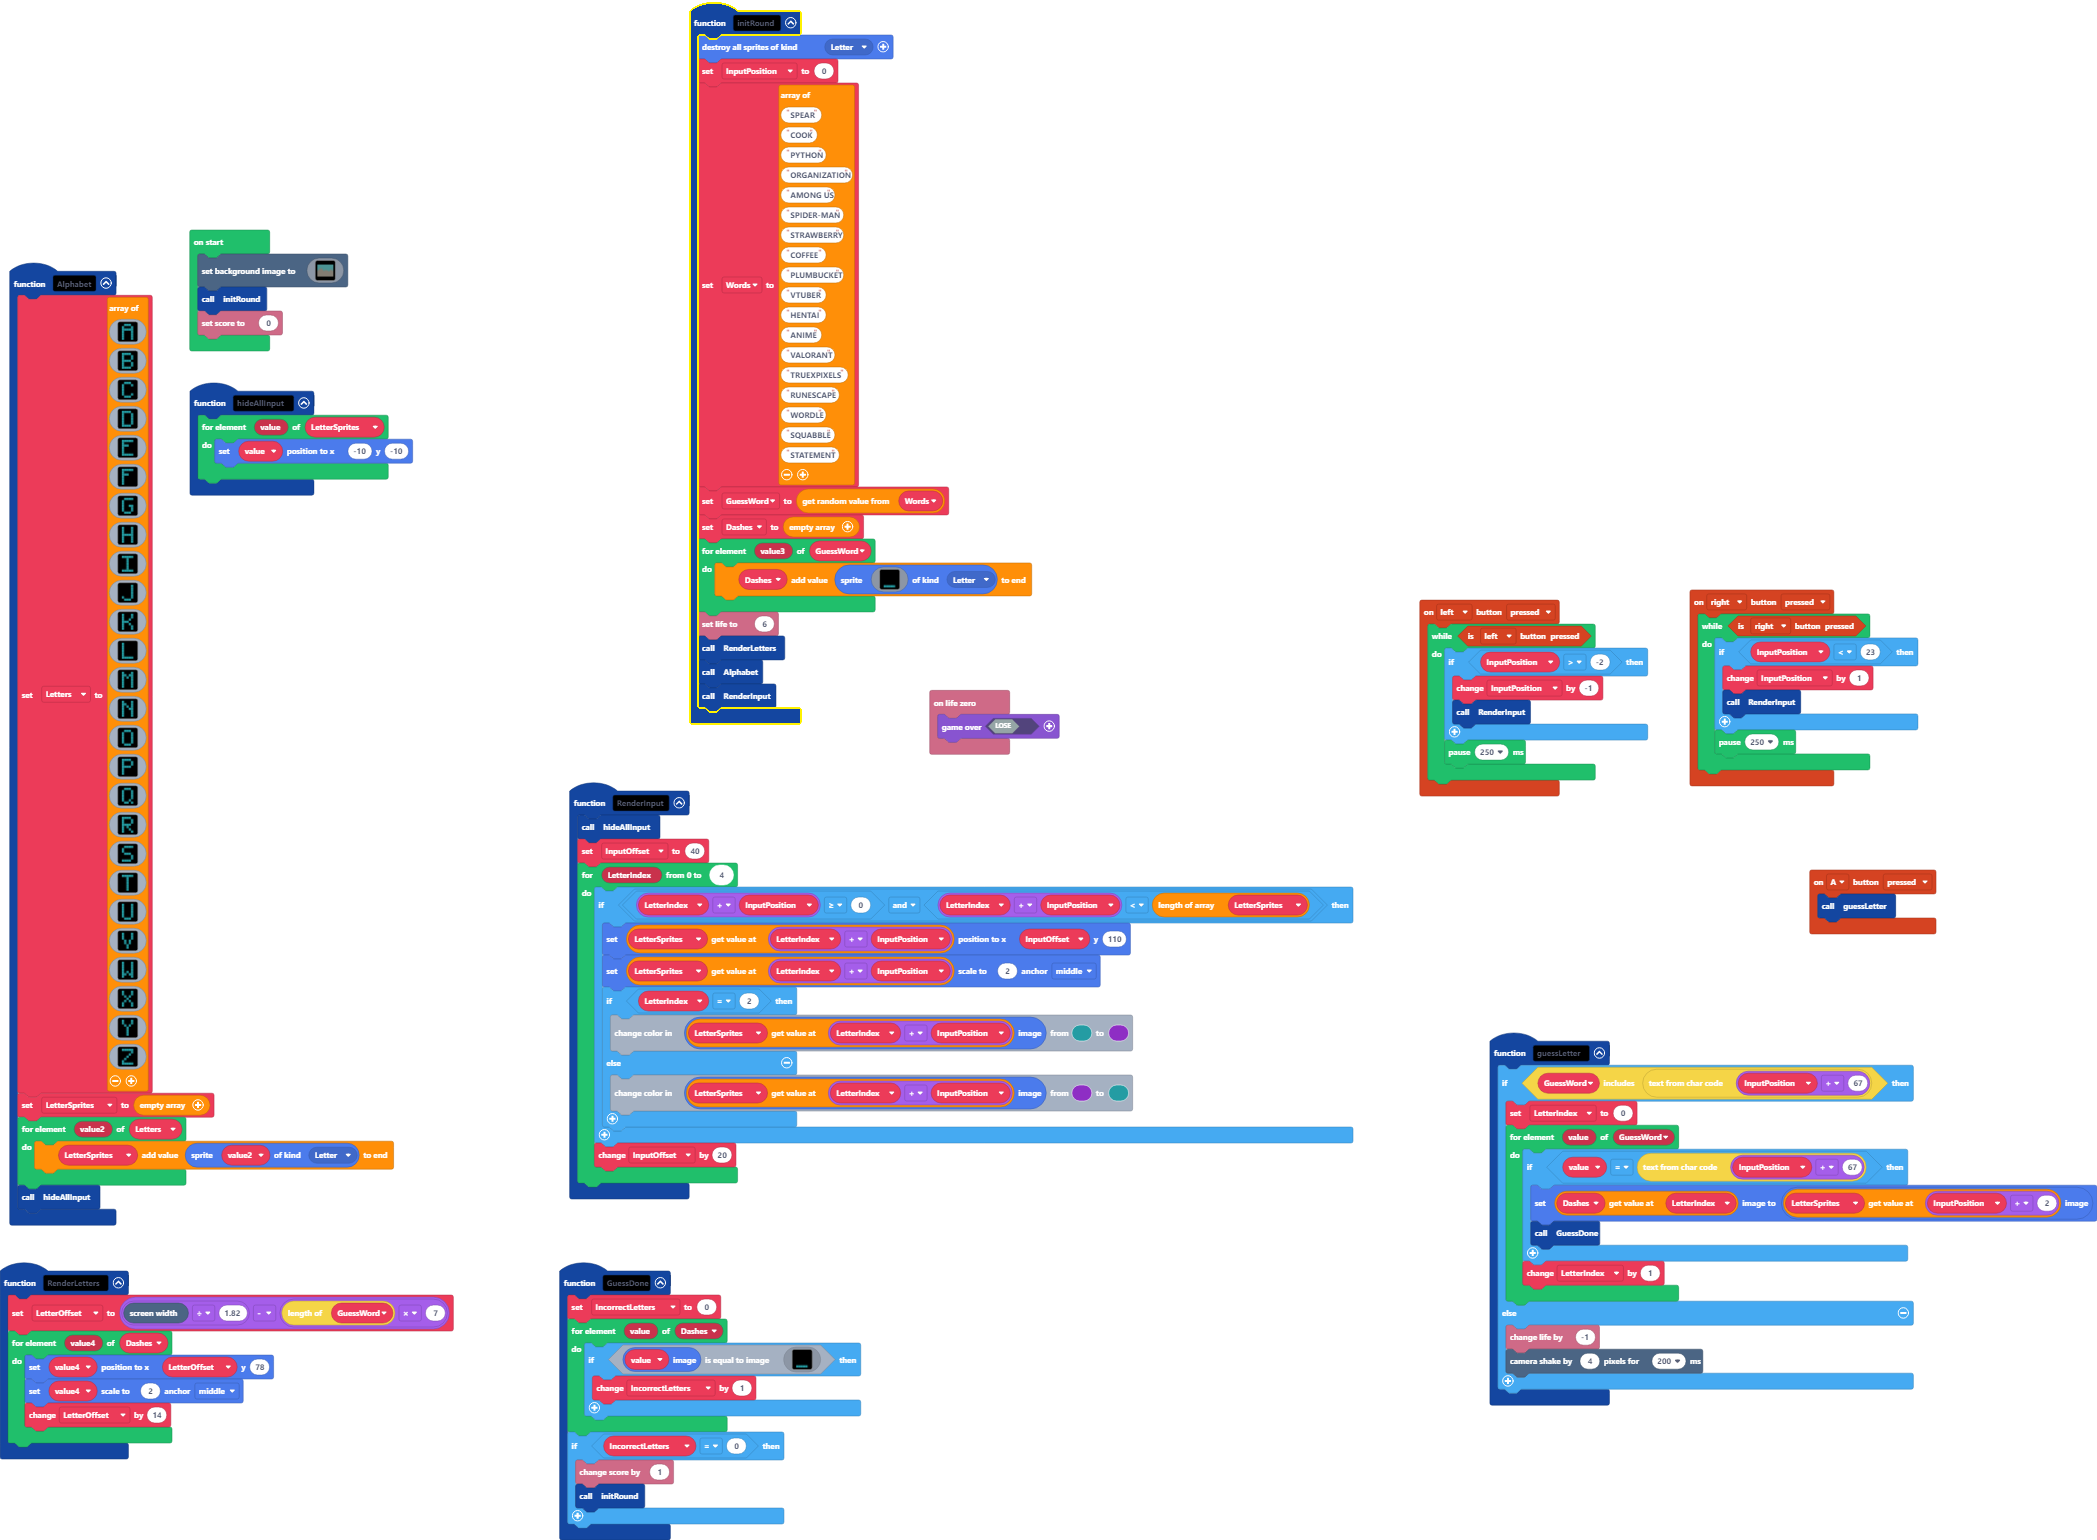
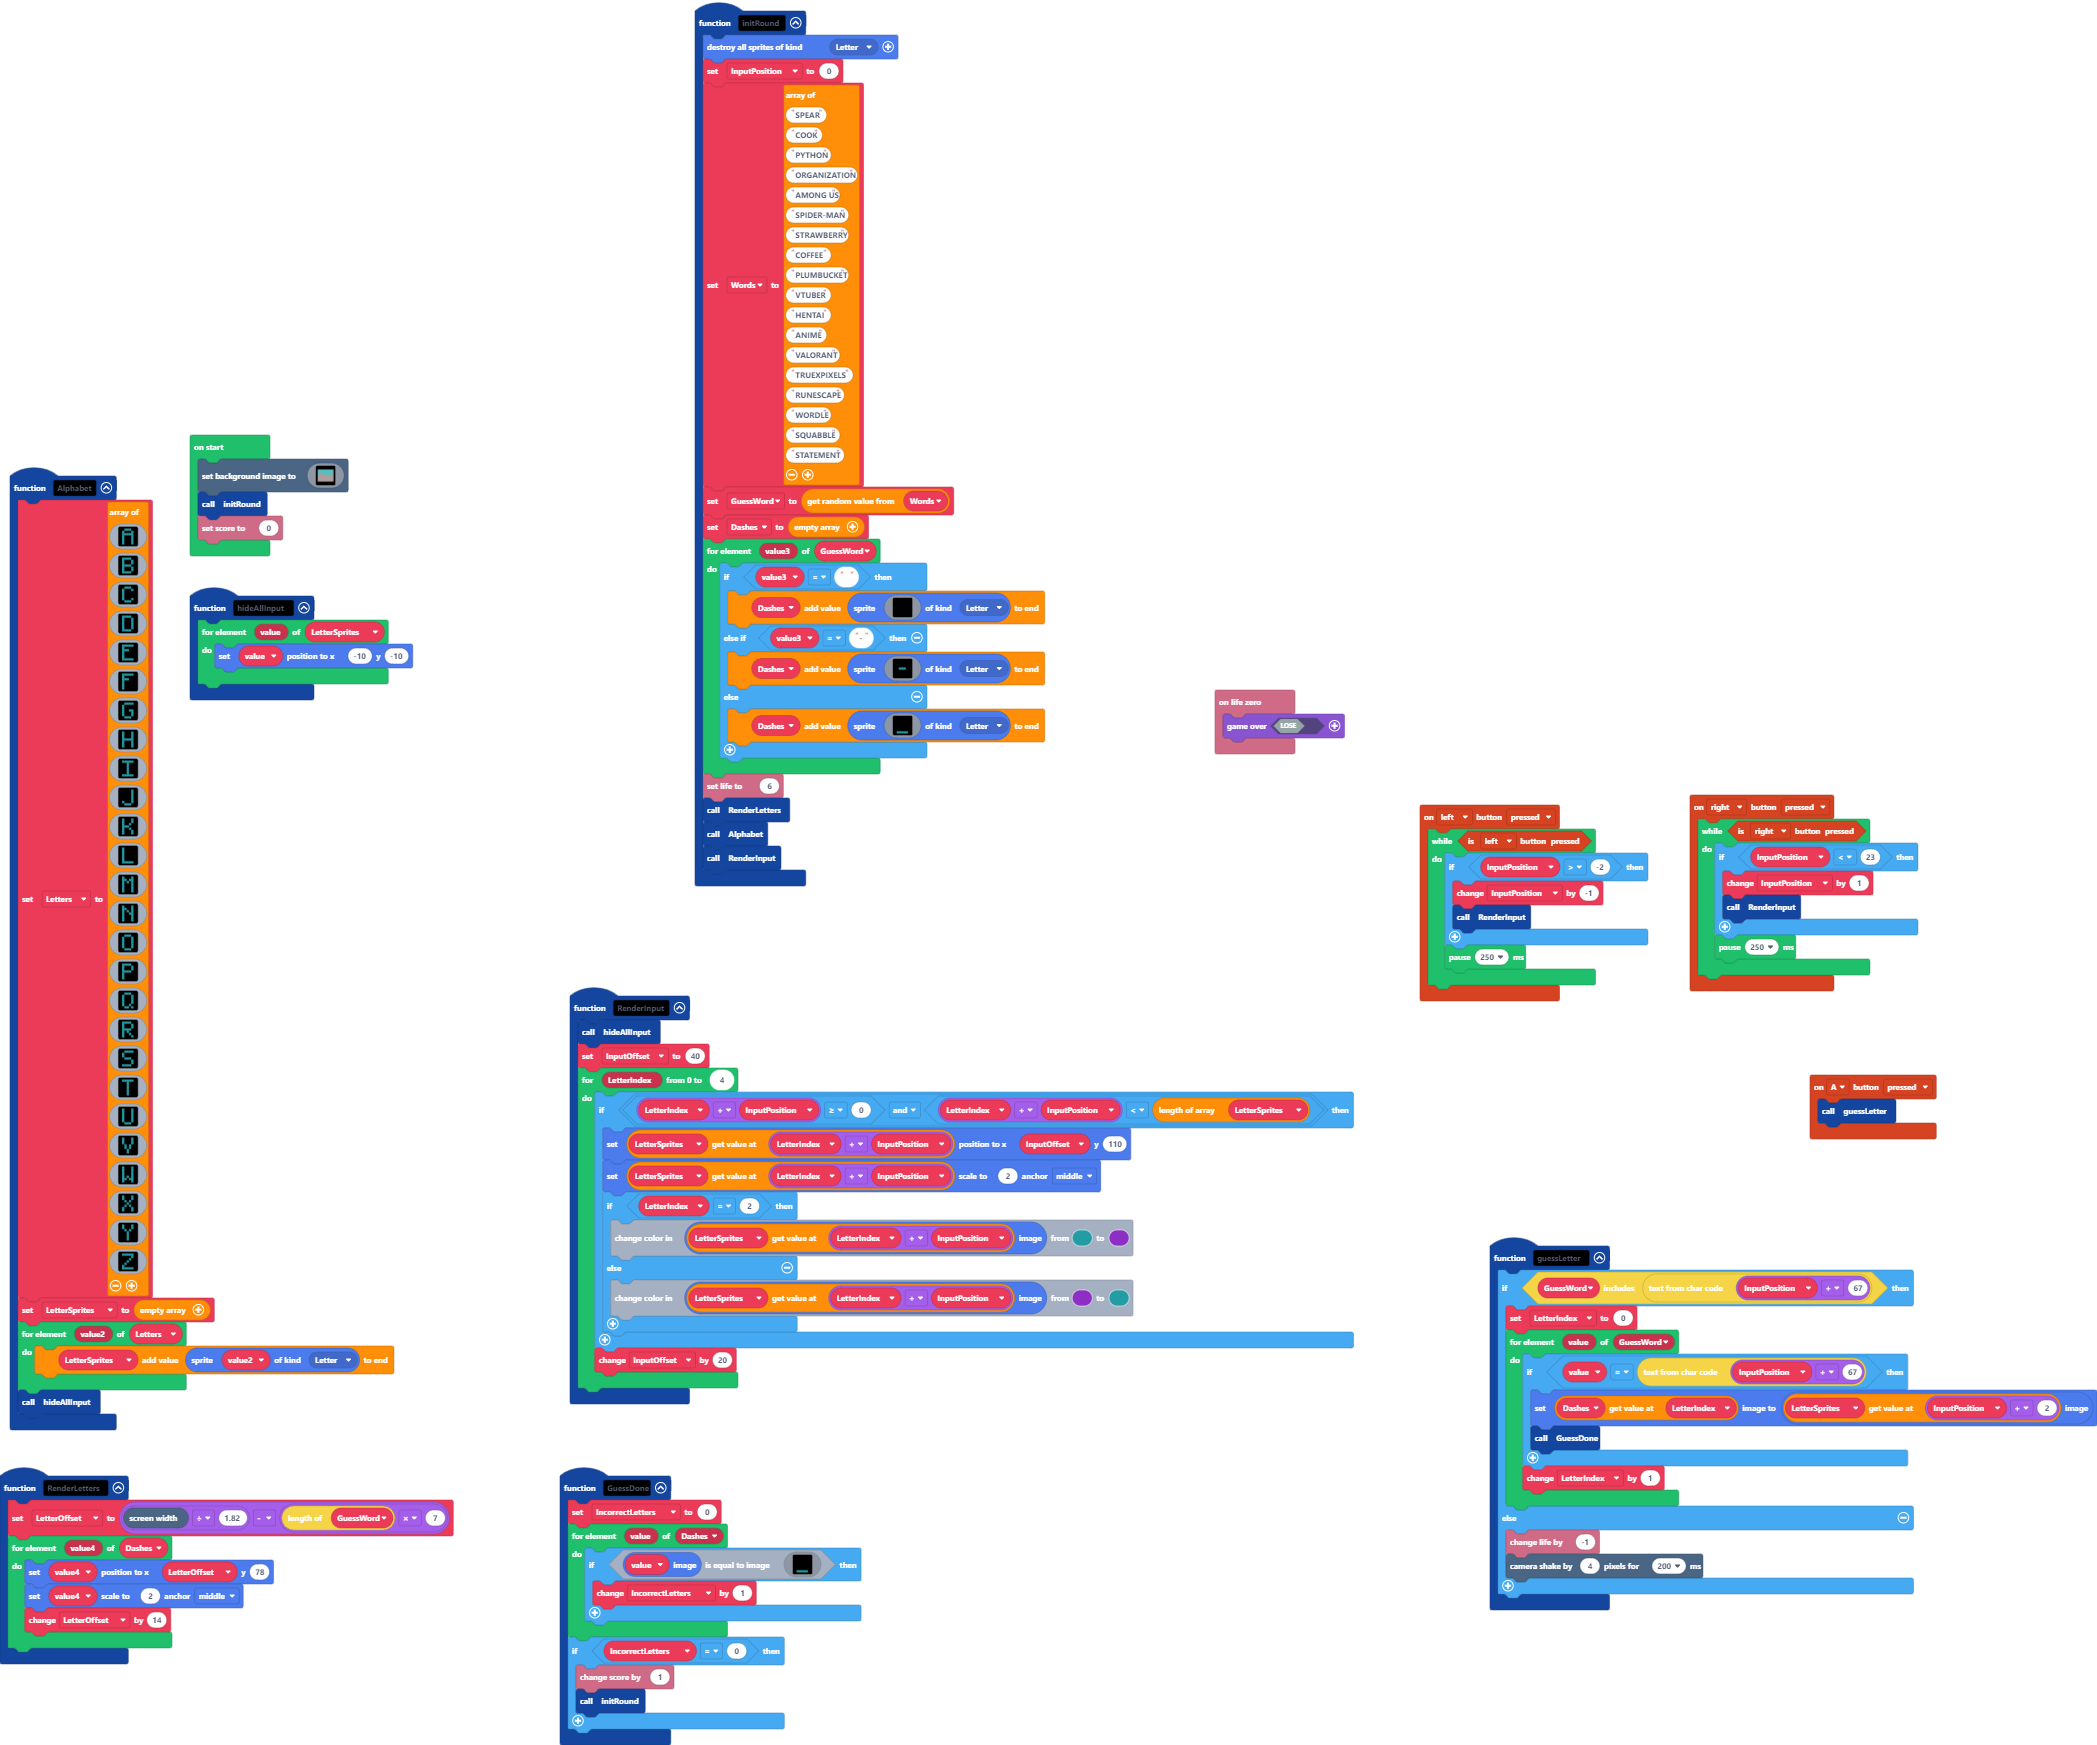
DO NOT LOSE THIS. FULL GAME NOT FINISHED

diff --git a/main.ts b/main.ts
@@ -119,7 +119,13 @@ function initRound () {
     GuessWord = Words._pickRandom()
     Dashes = []
     for (let value3 of GuessWord) {
-        Dashes.push(sprites.create(assets.image`Dash`, SpriteKind.Letter))
+        if (value3 == " ") {
+            Dashes.push(sprites.create(assets.image`space`, SpriteKind.Letter))
+        } else if (value3 == "-") {
+            Dashes.push(sprites.create(assets.image`Hyphen`, SpriteKind.Letter))
+        } else {
+            Dashes.push(sprites.create(assets.image`Dash`, SpriteKind.Letter))
+        }
     }
     info.setLife(6)
     RenderLetters()

diff --git a/images.g.ts b/images.g.ts
@@ -273,6 +273,26 @@ namespace myImages {
 . . . . . 
 6 6 6 6 6 
 `;
+            case "image27":
+            case "Hyphen":return img`
+. . . . . 
+. . . . . 
+. . . . . 
+. 6 6 6 . 
+. . . . . 
+. . . . . 
+. . . . . 
+`;
+            case "image28":
+            case "space":return img`
+. . . . . 
+. . . . . 
+. . . . . 
+. . . . . 
+. . . . . 
+. . . . . 
+. . . . . 
+`;
         }
         return null;
     })
